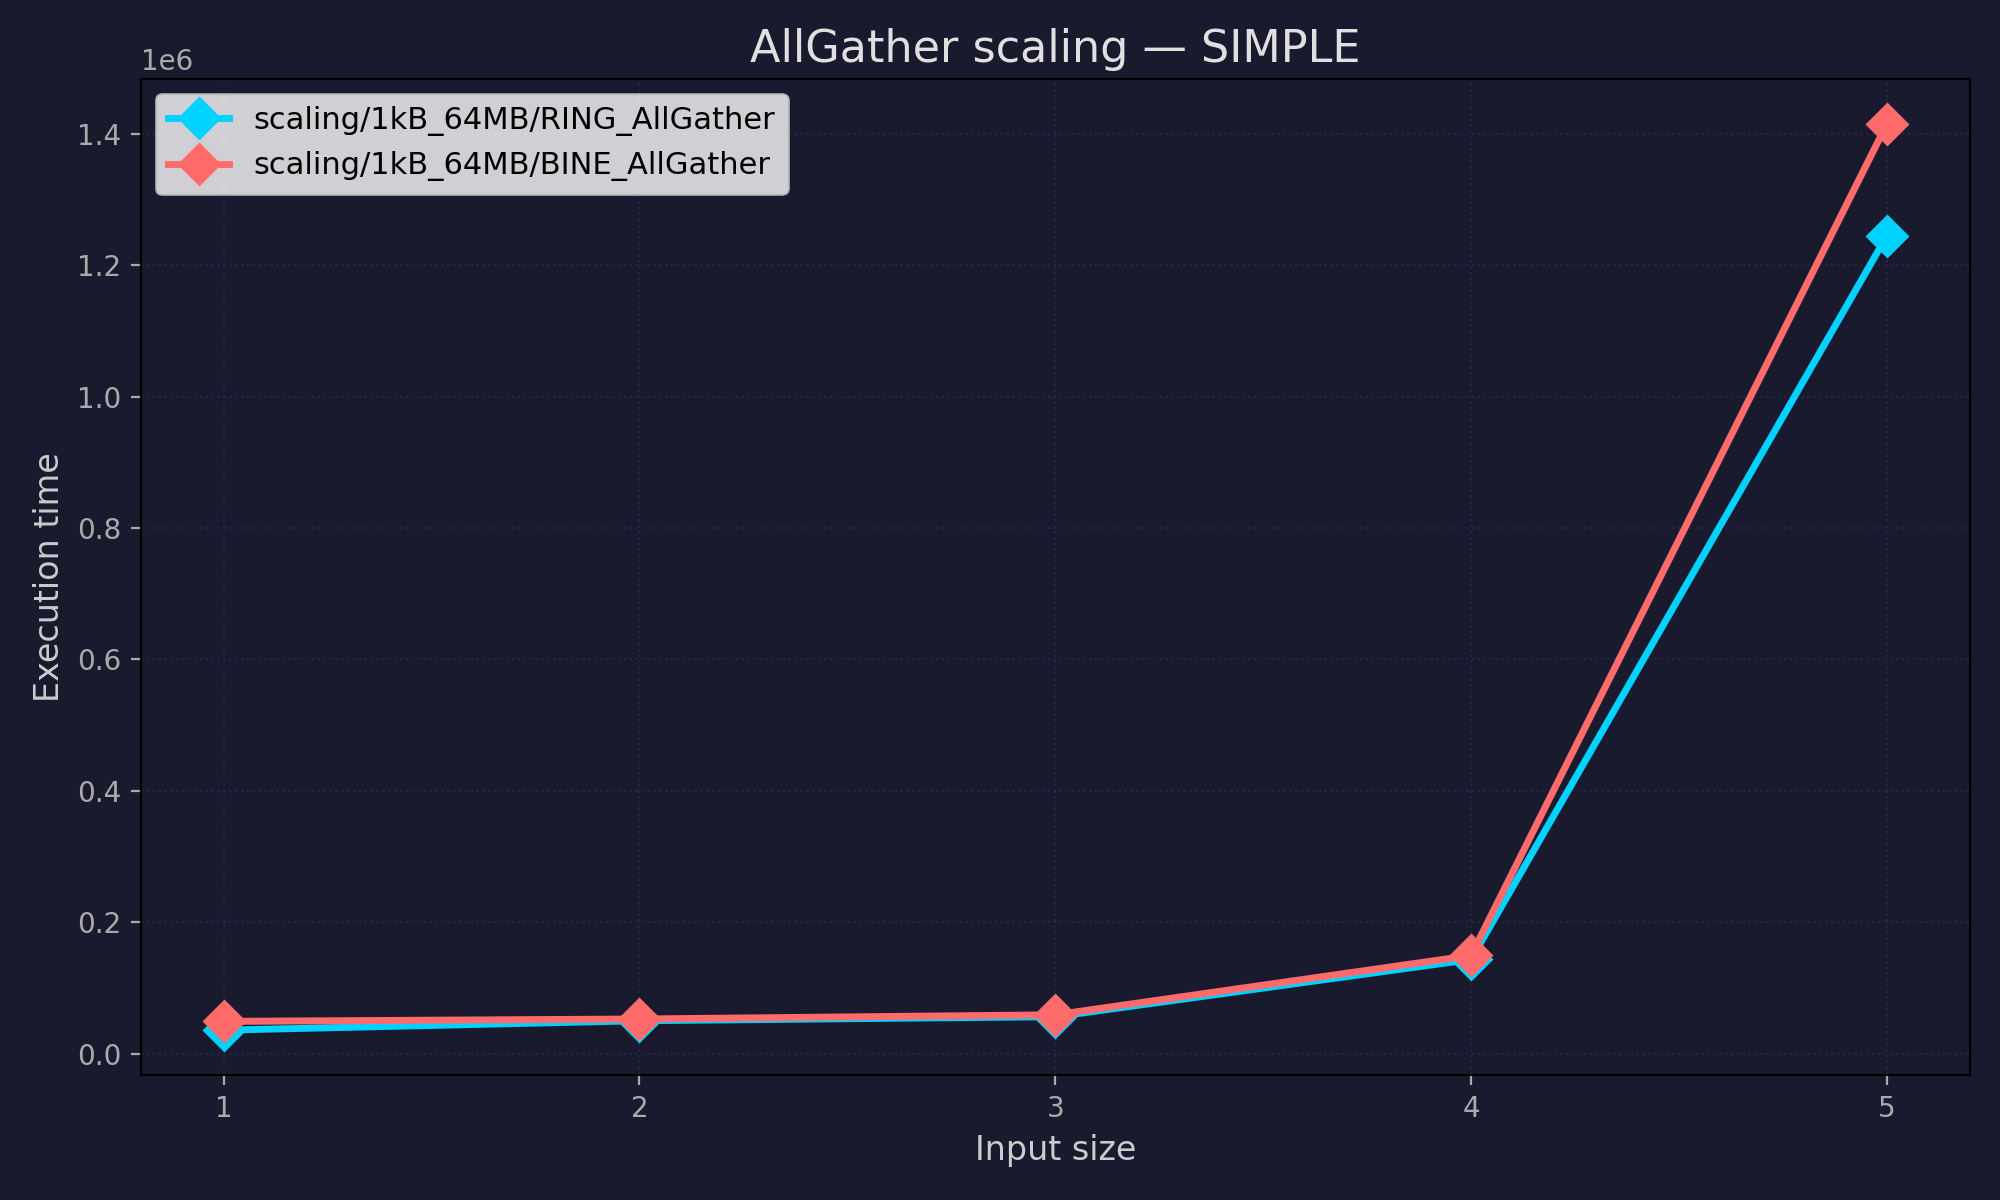
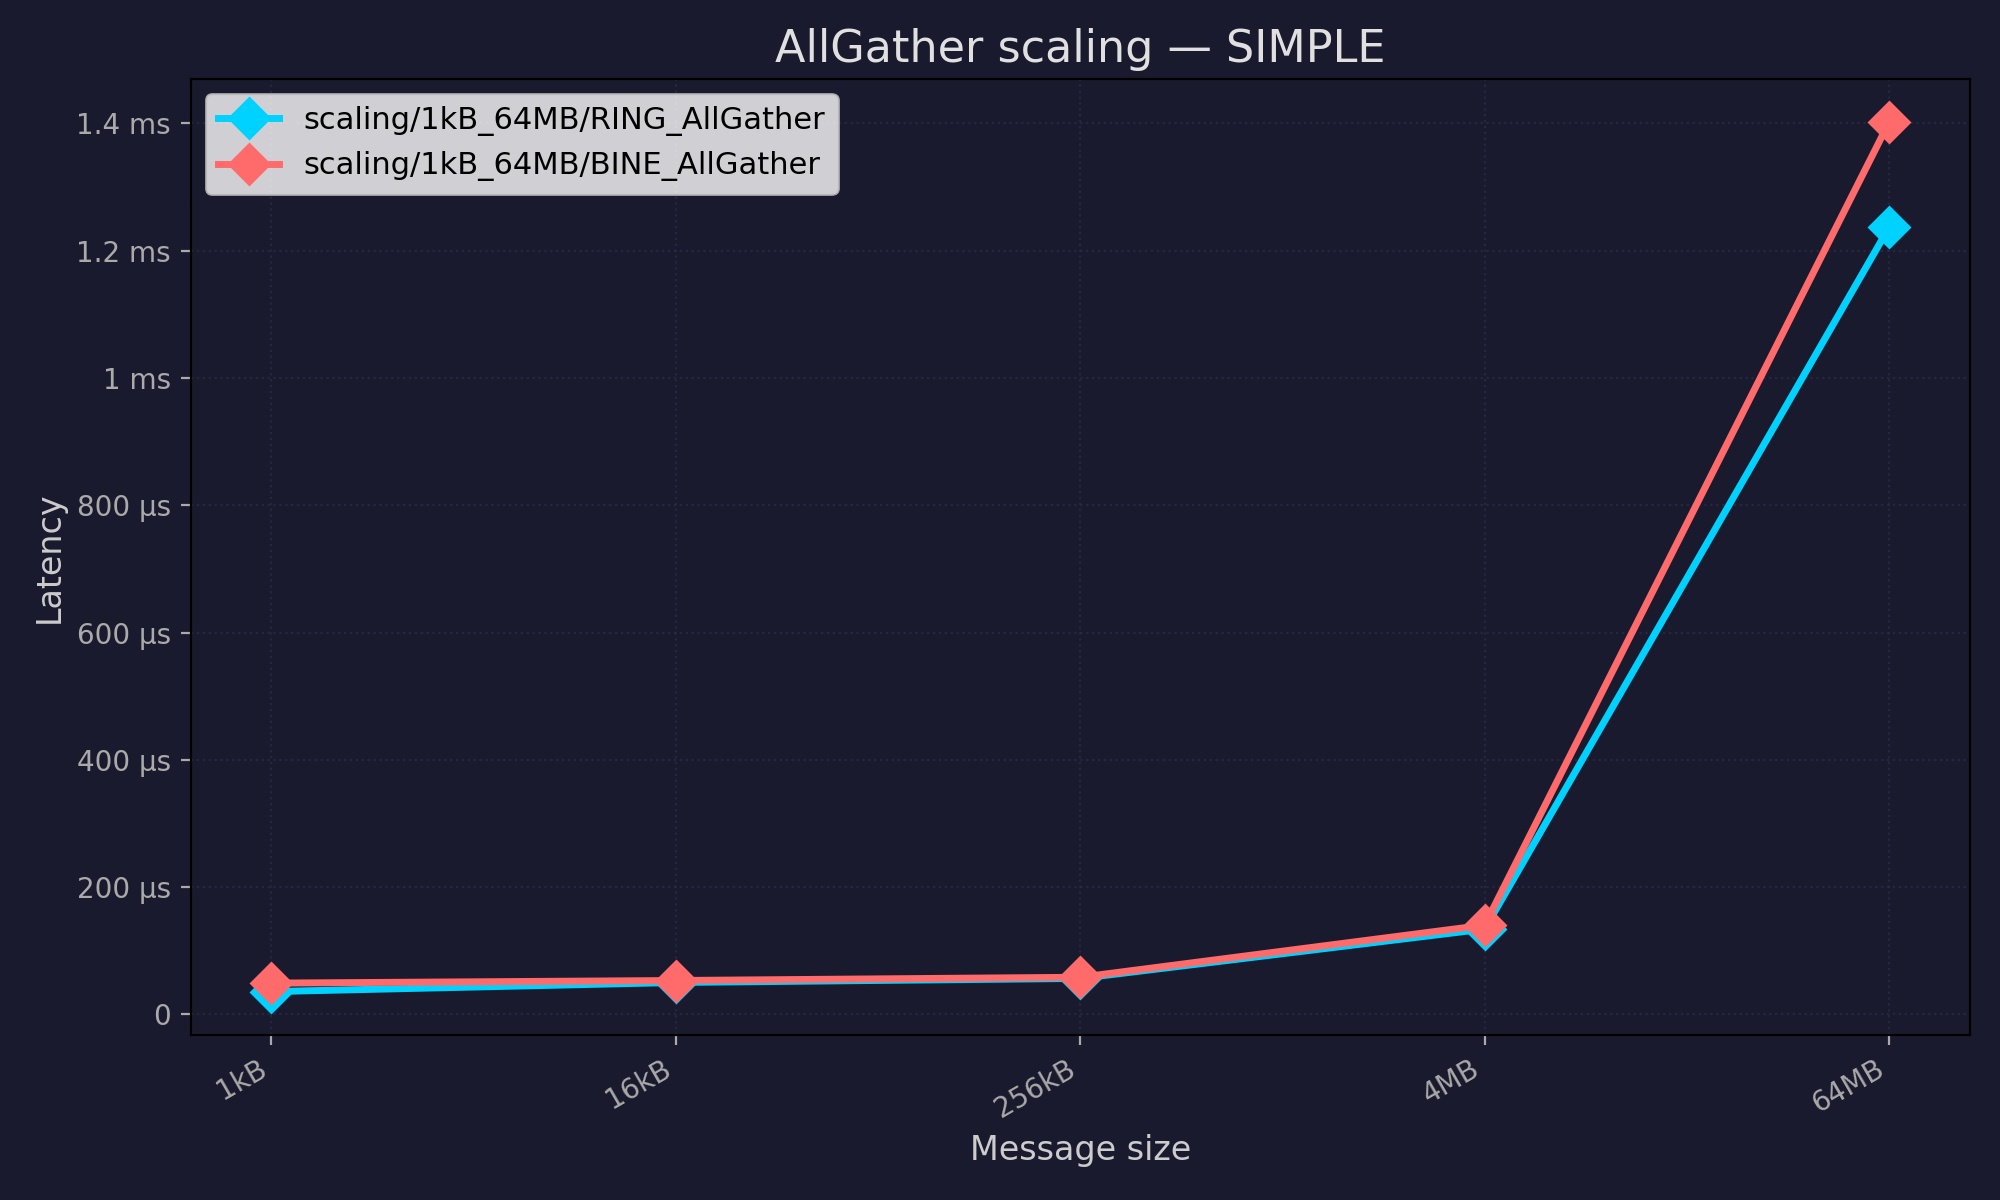
diff plots added

diff --git a/tests.py b/tests.py
@@ -2,7 +2,7 @@
 import sys, os
 import fastest
 import unitccl
-from fastest.plotting import Plotter, PlotMode, LegendLocation, LineStyle, MarkerStyle
+from fastest.plotting import Plotter, PlotMode, PlotTransform, LegendLocation, LineStyle, MarkerStyle
 
 # ── configuration ────────────────────────────────────────────────────────────
 
@@ -10,7 +10,7 @@ COLLS = {
     "AllGather":     True,
     "AllGatherV":    True,
     "AllReduce":     True,
-    "Bcast":     True,
+    "Bcast":         True,
     "Reduce":        True,
     "ReduceScatter": True,
 }
@@ -60,7 +60,7 @@ PROTOS = {
 }
 
 ENV = {
-    "UNITCCL_CHECK_BINE": "0",  # set to "1" or "ON" to enable bine correctness checks
+    "UNITCCL_CHECK_BINE": "1",  # set to "1" or "ON" to enable bine correctness checks
     # "NCCL_DEBUG": "INFO",
 }
 
@@ -68,6 +68,10 @@ N_REPEATS   = 1
 PLOT_MODE   = PlotMode.MEDIAN
 PLOT_DIR    = "plots"
 PLOT_COLORS = ["#00d2ff", "#ff6b6b", "#a8ff78", "#f7971e", "#c471ed"]
+
+# X-axis tick labels matching DEFINE_TEST_1KB_64MB expansion order.
+# If you add more sizes in bench_test.h, extend this list to match.
+TICK_LABELS = Plotter.SIZES_1KB_64MB   # ["1kB", "16kB", "256kB", "4MB", "64MB"]
 
 # ── args ─────────────────────────────────────────────────────────────────────
 #
@@ -127,8 +131,9 @@ def make_plotter(coll: str, proto: str) -> Plotter:
     p = (
         Plotter()
         .set_title(f"{coll} scaling — {proto}")
-        .set_x_label("Input size")
-        .set_y_label("Execution time")
+        .set_x_label("Message size")
+        .set_y_label("Latency")           # unit appended automatically by formatter
+        .set_x_tick_labels(TICK_LABELS)   # "1kB", "16kB", "256kB", "4MB", "64MB"
         .set_bg_color("#1a1a2e")
         .set_title_color("#e0e0e0")
         .set_label_color("#cccccc")
@@ -142,6 +147,13 @@ def make_plotter(coll: str, proto: str) -> Plotter:
     )
     for i, c in enumerate(PLOT_COLORS):
         p.set_pool_color(i, c)
+    return p
+
+def make_diff_plotter(coll: str, proto: str, baseline_algo: str) -> Plotter:
+    """Like make_plotter but pre-titled for DIFF transform output."""
+    p = make_plotter(coll, proto)
+    p.set_title(f"{coll} scaling — {proto}  (Δ vs {baseline_algo})")
+    p.set_y_label(f"Δ vs {baseline_algo}")   # % suffix added by formatter
     return p
 
 # ── main ──────────────────────────────────────────────────────────────────────
@@ -177,6 +189,9 @@ if opts["scaling"]:
             for algo in coll_algos
         }
 
+        # First active algo is the diff baseline (pool 0 in compare()).
+        baseline_algo = coll_algos[0]
+
         for proto in active_protos:
             os.environ["NCCL_PROTO"] = proto
             print(color(f"\n  {coll}  proto={proto}  algos={coll_algos}", sep_color))
@@ -187,6 +202,13 @@ if opts["scaling"]:
             if opts["plot"]:
                 file_dir = f"{PLOT_DIR}/{coll}"
                 os.makedirs(file_dir, exist_ok=True)
+
                 file_path = f"{file_dir}/{coll}_{proto}.png"
                 make_plotter(coll, proto).plot(cmp, file_path, PLOT_MODE)
+                print(color(f"   saved → {file_path}", "dim"))
+
+                file_path = f"{file_dir}/{coll}_{proto}_diff.png"
+                make_diff_plotter(coll, proto, baseline_algo).plot(
+                    cmp, file_path, PLOT_MODE, PlotTransform.DIFF
+                )
                 print(color(f"   saved → {file_path}", "dim"))

diff --git a/include/bench_test.h b/include/bench_test.h
@@ -25,24 +25,35 @@ static int run_bench(const char *coll, const char *algo, size_t nbytes,
         out->exit_status = FASTEST_ERROR_RESOURCE;
         return -1;
     }
+
     char     line[256];
-    int      got_median = 0;
-    uint64_t median_ns = 0;
+    int      got_median   = 0;
+    int      got_status   = 0;
+    uint64_t median_ns    = 0;
+    int      bench_status = FASTEST_SUCCESS;
     while (fgets(line, sizeof(line), fp)) {
         fprintf(stderr, "[bench] %s", line);
         if (strncmp(line, "median:", 7) == 0) {
             got_median = 1;
             sscanf(line, "median: %llu ns", (unsigned long long *)&median_ns);
+        } else if (strncmp(line, "status:", 7) == 0) {
+            got_status = 1;
+            if      (strstr(line, "error assert"))    bench_status = FASTEST_ERROR_ASSERT;
+            else if (strstr(line, "error cuda/nccl")) bench_status = FASTEST_ERROR_RESOURCE;
+            /* "success" → bench_status stays FASTEST_SUCCESS */
         }
     }
-done:
     int ret = pclose(fp);
     if (ret != 0) {
         out->exit_status |= FASTEST_ERROR_RESOURCE;
         return -1;
     }
-    if (!got_median) {
+    if (!got_median || !got_status) {
         out->exit_status |= FASTEST_ERROR_UNEXPECTED;
+        return -1;
+    }
+    if (bench_status != FASTEST_SUCCESS) {
+        out->exit_status = bench_status;
         return -1;
     }
     out->time_ns     = median_ns;
